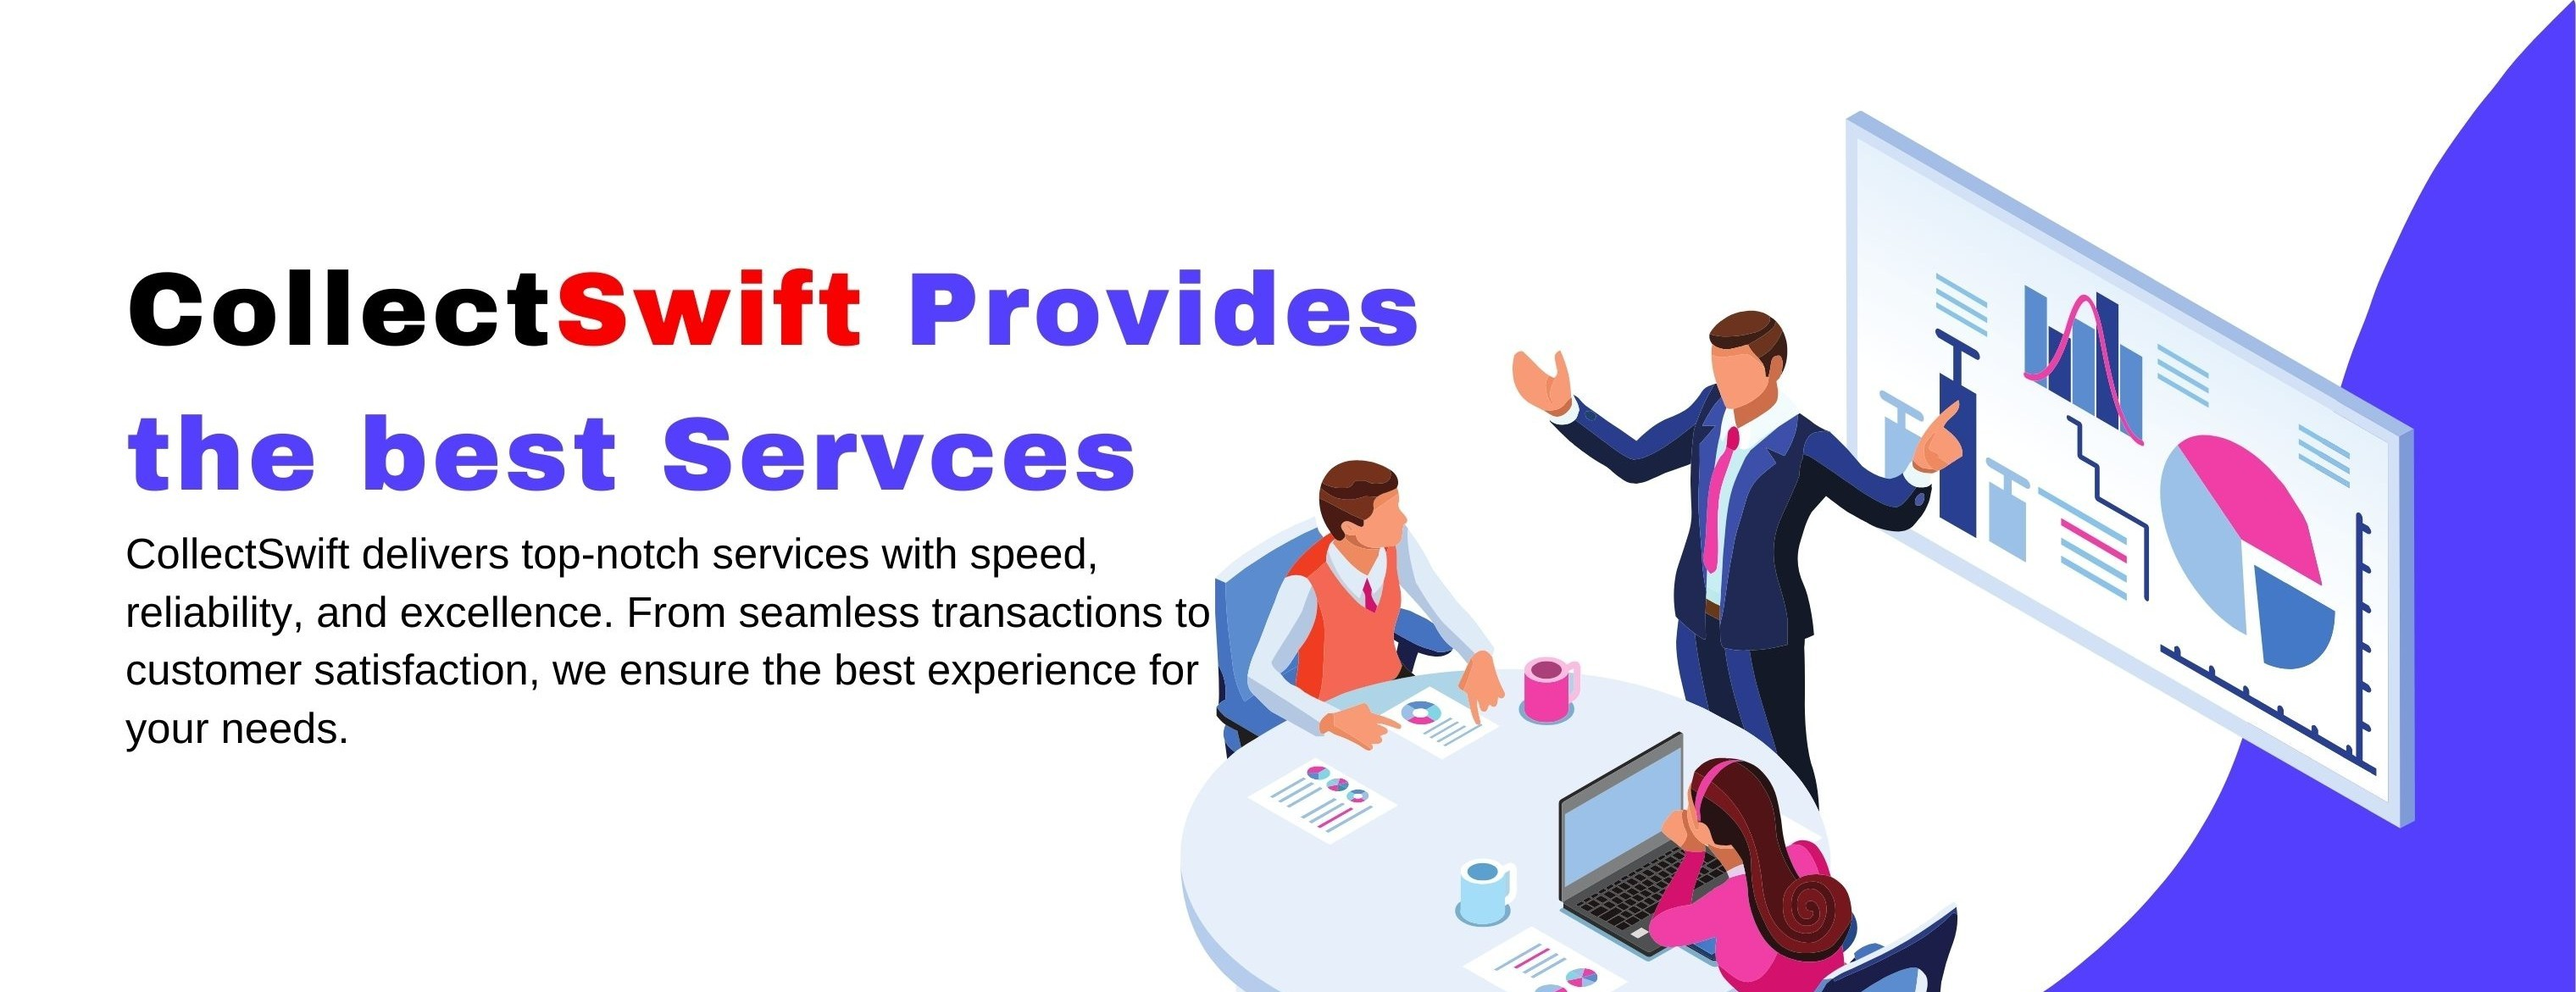
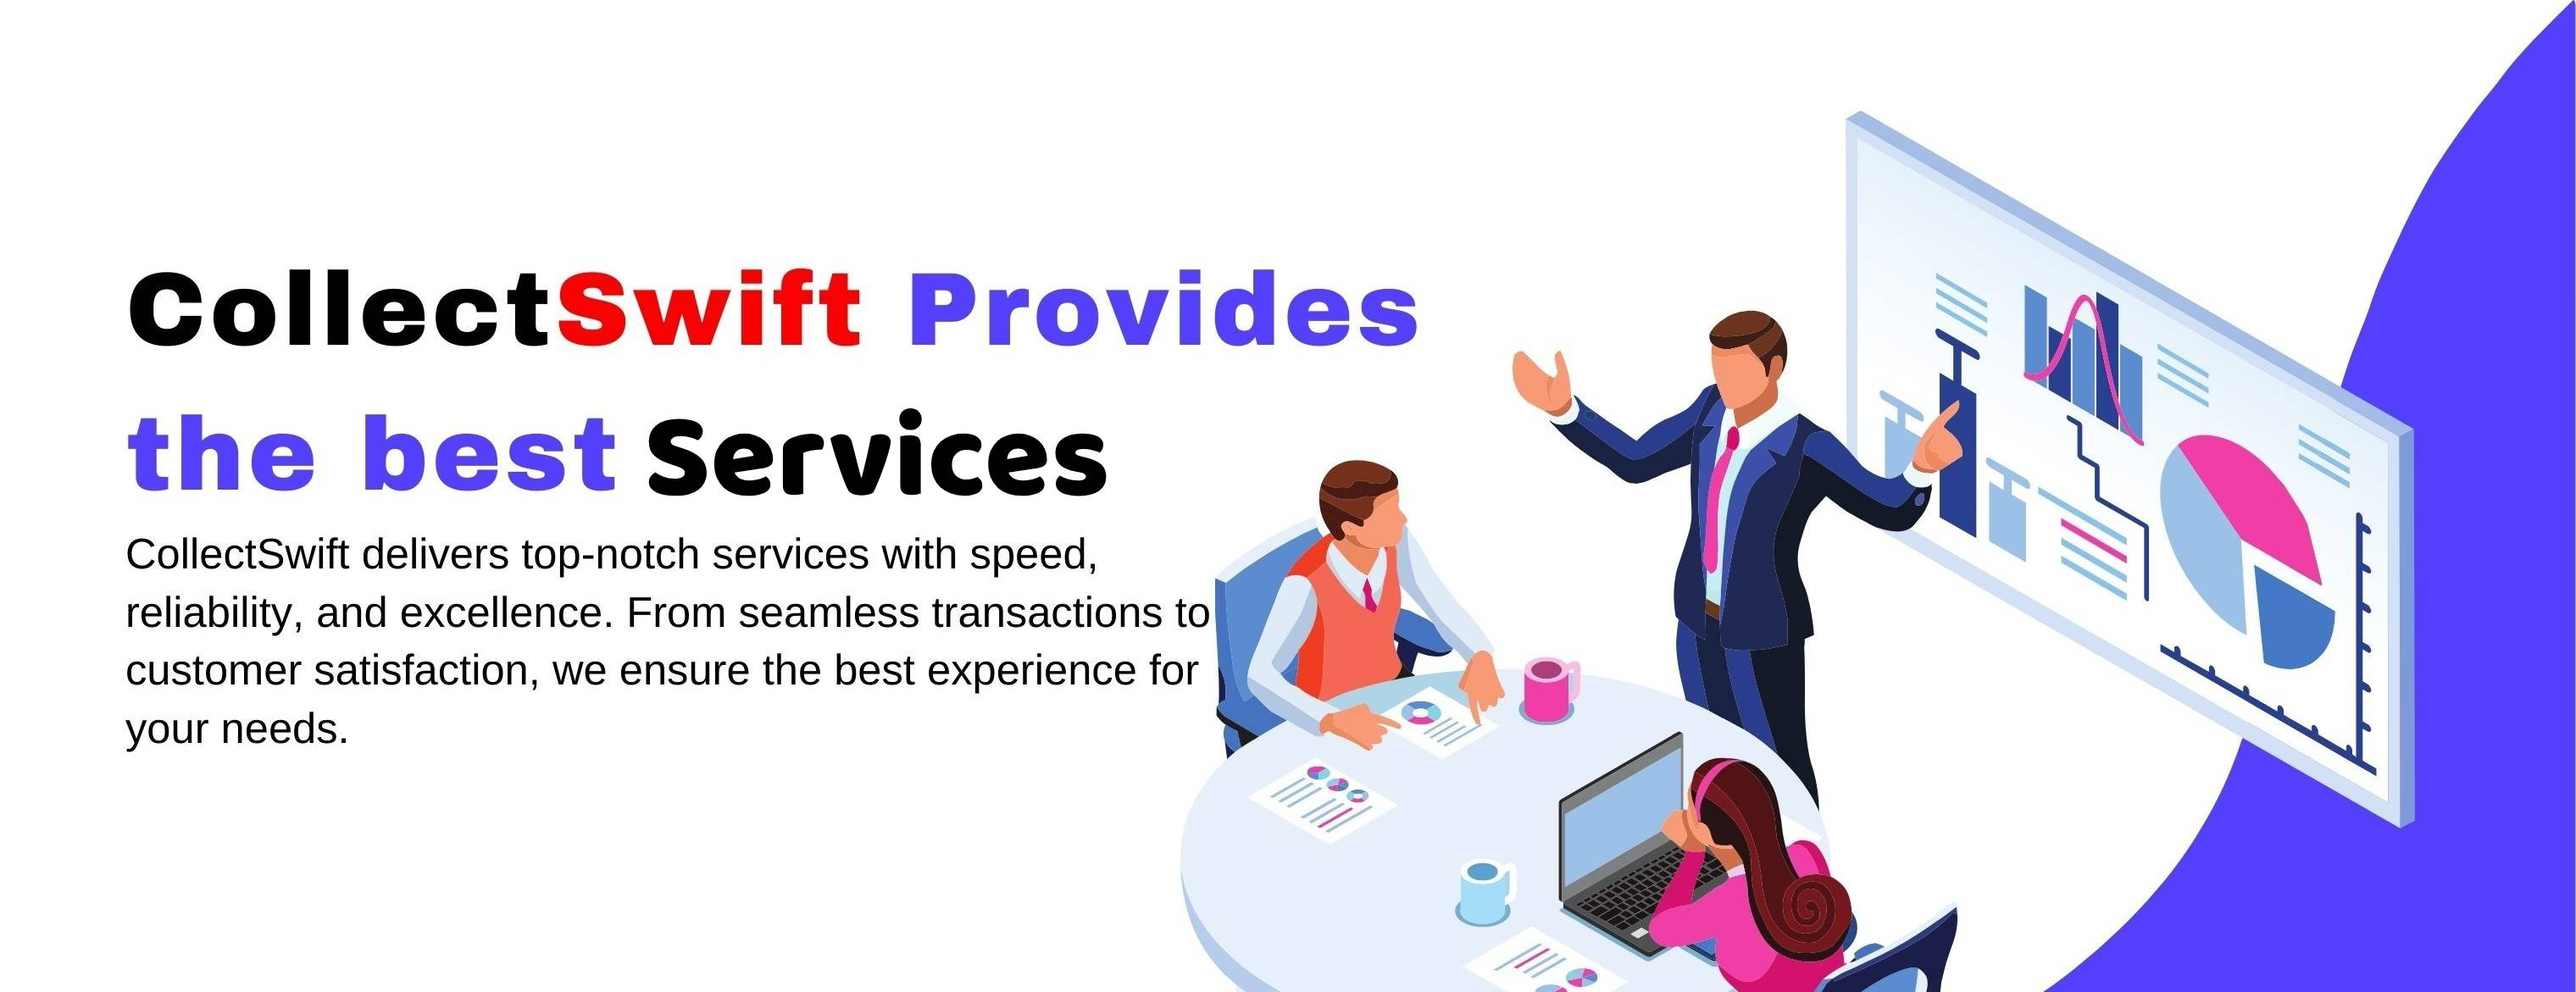
all set

Changed region(s): [[0.25, 0.3997, 0.4375, 0.5226]]

diff --git a/src/Components/Home/Servicwmarqu.js b/src/Components/Home/Servicwmarqu.js
@@ -1,10 +1,10 @@
 import React from 'react';
 
-import img from '../../assets/images/rechargeicon.png';
-import img1 from '../../assets/images/panicon.png';
-import img2 from '../../assets/images/mticon.png';
-import img3 from '../../assets/images/bbpsicon.png';
-import img4 from '../../assets/images/Merchant.png';
+import img1 from "../../assets/images/Dsh.jpeg";
+import img2 from "../../assets/images/pan.png";
+import img3 from "../../assets/images/Prcs.jpeg";
+import img4 from "../../assets/images/money.png";
+import img from "../../assets/images/recharge.png";
 
 import Image from 'next/image';
 
@@ -18,75 +18,75 @@ function ServiceMarque() {
         <Image
              src={img}
              alt='service_icons'
-              width={500}
-              height={300}
+              width={100}
+              height={100}
                className="h-full object-cover rounded-t-lg sm:rounded-none sm:rounded-l-lg"
             />
              <Image
              src={img1}
              alt='service_icons'
-              width={500}
-              height={300}
+              width={100}
+              height={100}
                className="h-full object-cover rounded-t-lg sm:rounded-none sm:rounded-l-lg"
             />
              <Image
              src={img2}
              alt='service_icons'
-              width={500}
-              height={300}
+              width={100}
+              height={100}
                className="h-full object-cover rounded-t-lg sm:rounded-none sm:rounded-l-lg"
             />
              <Image
              src={img3}
              alt='service_icons'
-              width={500}
-              height={300}
+              width={100}
+              height={100}
                className="h-full object-cover rounded-t-lg sm:rounded-none sm:rounded-l-lg"
             />
              <Image
              src={img4}
              alt='service_icons'
-              width={500}
-              height={300}
+              width={100}
+              height={100}
                className="h-full object-cover rounded-t-lg sm:rounded-none sm:rounded-l-lg"
             />
             
               <Image
              src={img}
              alt='service_icons'
-              width={500}
-              height={300}
+              width={100}
+              height={100}
                className="h-full object-cover rounded-t-lg sm:rounded-none sm:rounded-l-lg"
             />
              <Image
              src={img1}
              alt='service_icons'
-              width={500}
-              height={300}
+              width={100}
+              height={100}
                className="h-full object-cover rounded-t-lg sm:rounded-none sm:rounded-l-lg"
             />
              <Image
              src={img2}
              alt='service_icons'
-              width={500}
-              height={300}
+              width={100}
+              height={100}
                className="h-full object-cover rounded-t-lg sm:rounded-none sm:rounded-l-lg"
             />
              <Image
              src={img3}
              alt='service_icons'
-              width={500}
-              height={300}
+              width={100}
+              height={100}
                className="h-full object-cover rounded-t-lg sm:rounded-none sm:rounded-l-lg"
             />
-             <Image
+             {/* <Image
              src={img4}
              alt='service_icons'
-              width={500}
-              height={300}
+              width={100}
+              height={100}
                className="h-full object-cover rounded-t-lg sm:rounded-none sm:rounded-l-lg"
             />
-            
+             */}
     
       
       </div>

diff --git a/src/Components/Services/Service.js b/src/Components/Services/Service.js
@@ -1,11 +1,11 @@
 import Image from "next/image";
 import React from "react";
 import { motion } from "framer-motion";
-import img1 from "../../assets/images/bbps.png";
+import img1 from "../../assets/images/Dsh.jpeg";
 import img2 from "../../assets/images/pan.png";
-import img3 from "../../assets/images/recharge.png";
+import img3 from "../../assets/images/Prcs.jpeg";
 import img4 from "../../assets/images/money.png";
-import img5 from "../../assets/images/aeps.png";
+import img5 from "../../assets/images/recharge.png";
 
 const servicesData = [
   {
@@ -14,12 +14,12 @@ const servicesData = [
       "We are offer dashboards and reporting tools that provide insights into sales performance, transaction history, and customer behavior, aiding in business decision-making.",
     image: img1,
   },
-  // {
-  //   title: " Integration and Developer Tools",
-  //   content:
-  //     "They offer APIs, SDKs, and plugins to integrate payment processing into websites, mobile apps, and e-commerce platforms, facilitating seamless transactions.",
-  //   image: img2,
-  // },
+  {
+    title: " Integration and Developer Tools",
+    content:
+      "They offer APIs, SDKs, and plugins to integrate payment processing into websites, mobile apps, and e-commerce platforms, facilitating seamless transactions.",
+    image: img2,
+  },
   {
     title: "Multi-Channel Payment Acceptance",
     content:

diff --git a/src/Components/Home/Service.js b/src/Components/Home/Service.js
@@ -9,7 +9,7 @@ import Image from 'next/image';
 
 const servicesData = [
   {
-<<<<<<< HEAD
+
     title: 'Payment Processing',
     content: 'Facilitate seamless transactions with our advanced payment gateway solution, supporting credit/debit cards, UPI, net banking, and digital wallets. Enjoy 99.99% uptime with real-time payment processing and instant settlements.',
     image: img1,
